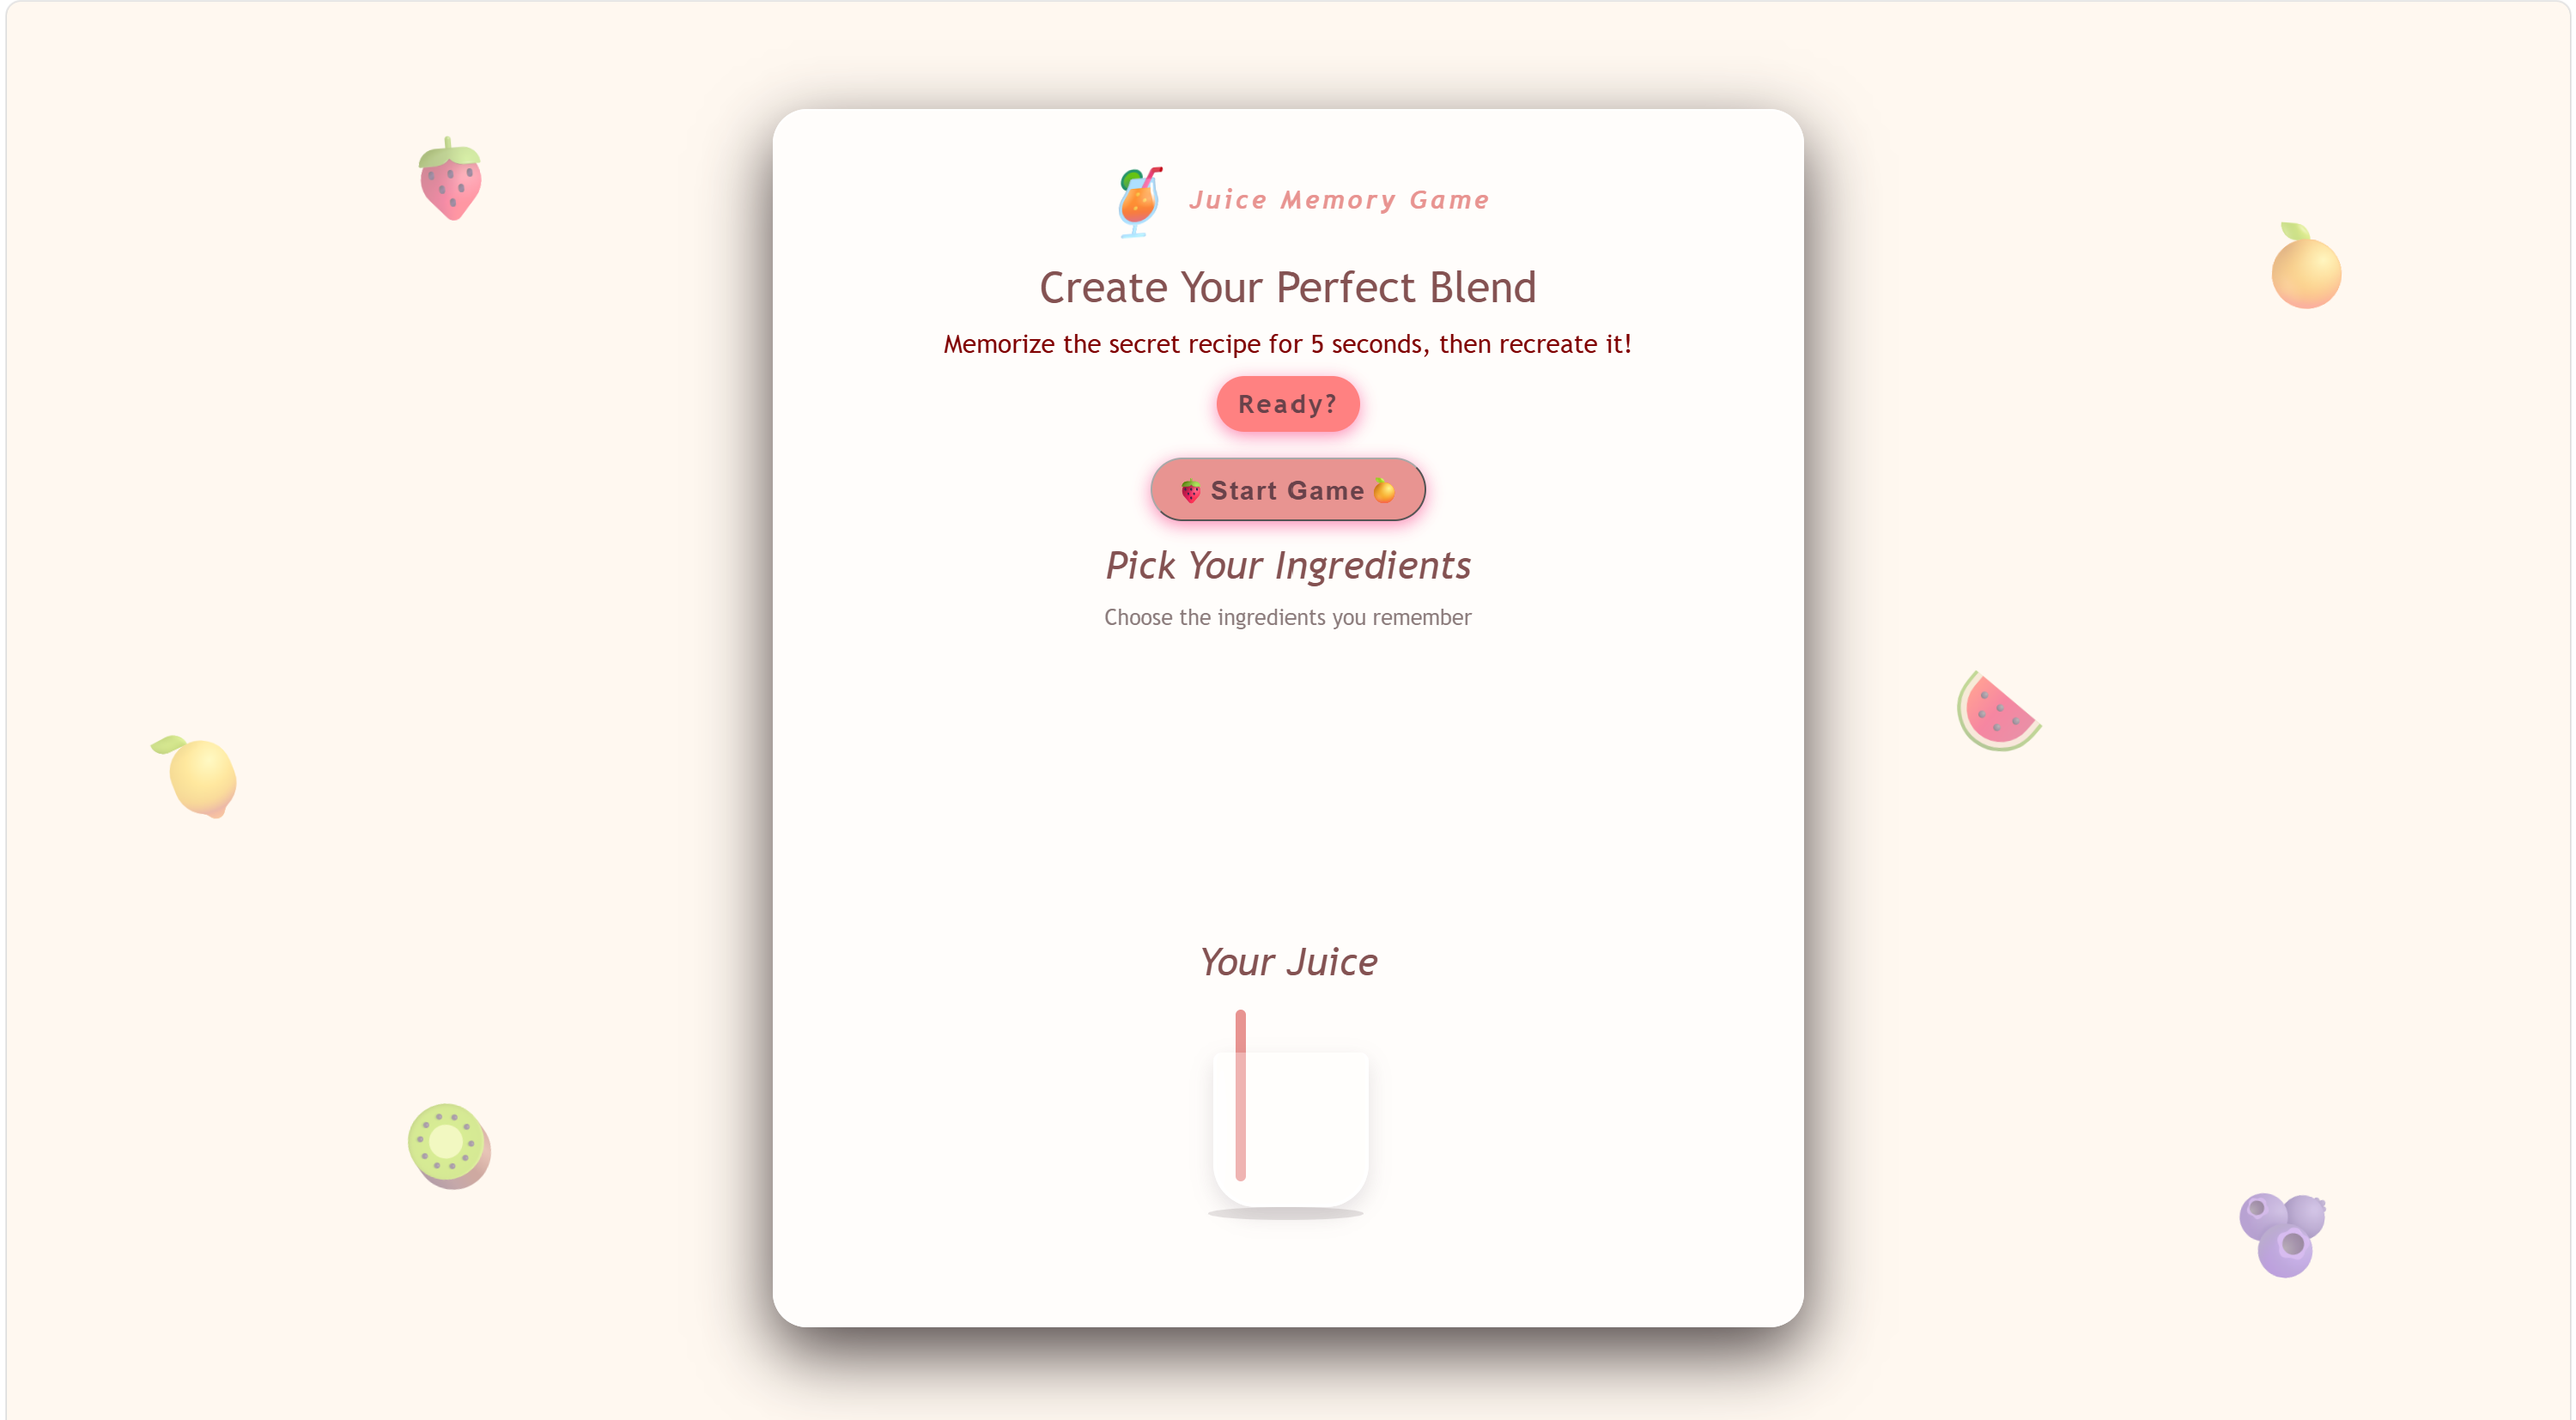
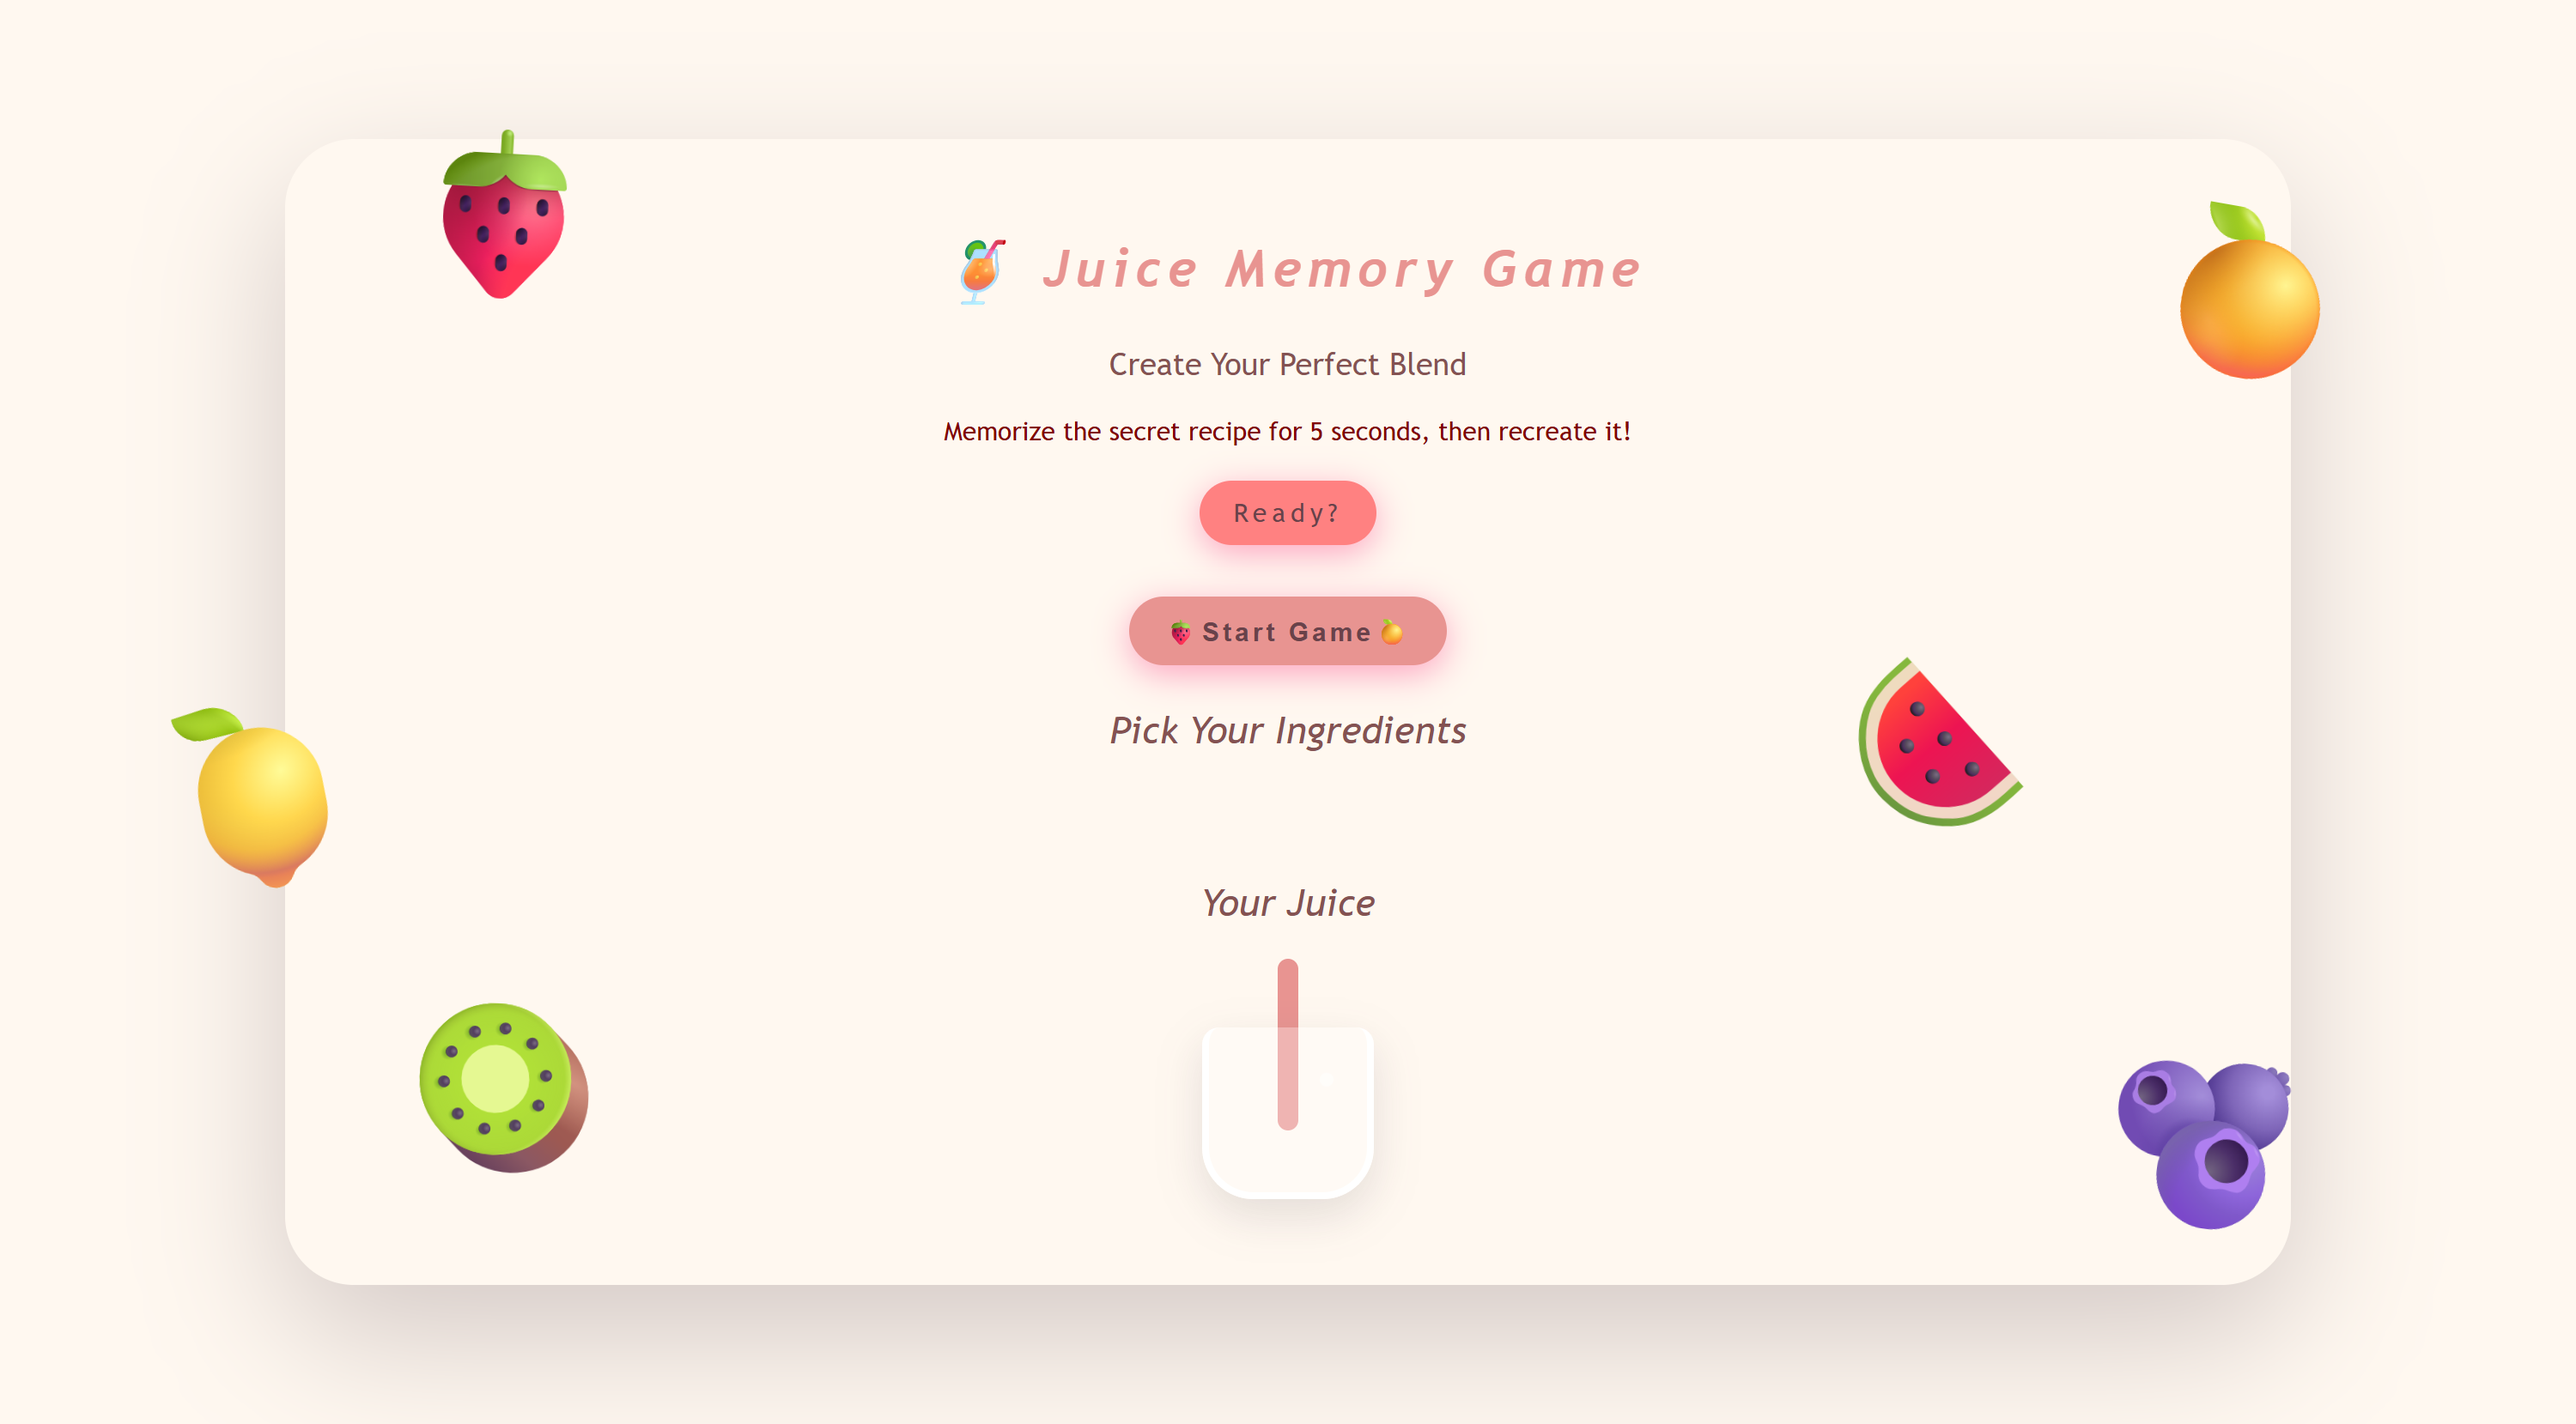
Finalize Juice Memory Game and clean up code

diff --git a/js/app.js b/js/app.js
@@ -70,8 +70,6 @@ const secHead = document.querySelector(".section-header");
 
 //start game
 function startGame(){
-    console.log("the game is started");
-
     fiveIngredients = [];
     selectedIngredients = [];
 
@@ -114,8 +112,6 @@ function startGame(){
         //hide them
         ingContainer.innerHTML = "";
 
-        console.log("ingredients are hidden!");
-
         //display all the ingredients for the player
         for(const allIngredients of ingredients){
             const ingButton = document.createElement("button");
@@ -127,7 +123,6 @@ function startGame(){
 
             ingContainer.appendChild(ingButton);
         }
-        console.log("Choose your ingredients!");
 
     },5000);
 
@@ -138,7 +133,6 @@ function startGame(){
 
 //play again
 function playAgain(){
-    console.log("you can play again");
 
     // Clear previous game
     selectedIngredients = [];
@@ -161,9 +155,7 @@ function playAgain(){
 
 //make juice
 function makeJuice(){
-    console.log("Juice is made!");
-
-
+    
     const isCorrect =
         fiveIngredients.length === selectedIngredients.length &&
         fiveIngredients.every((ingredient, index) =>
@@ -212,8 +204,6 @@ function makeJuice(){
     //show pplay agin button
     playAgainButton.style.display = "inline-block";
 
-
-    console.log("Result screen displayed!");
 }
 
 //player choice
@@ -225,9 +215,7 @@ const getPlayerChoice = (event) => {
 
     //Add ingredient to cup
     addIngredient(playerChoice);
-    
-    console.log("player selected: ", playerChoice);
-    console.log("All selected ingredient: ",selectedIngredients);
+
 };
 
 //computer random ingredients
@@ -237,7 +225,6 @@ const getRandomIng = () =>{
     for(i = 0; i<5;i++){
     const randomIndex = Math.floor(Math.random() * ingredients.length);
     const randomIng = ingredients[randomIndex];
-    console.log("ingredinets: " +randomIng);
 
     // check if ingredients is already selected
     if(!fiveIngredients.includes(randomIng)){
@@ -316,10 +303,6 @@ const handleMove = (event) => {
     selectedIngredients.push(playerChoice);
 
     event.target.classList.add("selected");
-
-    console.log("player selected: ", playerChoice);
-    console.log("All selected ingredient: ", selectedIngredients);
-
     
     render();
 };

diff --git a/README.md b/README.md
@@ -22,14 +22,24 @@ I chose this idea because I wanted to create a fun and interactive memory game w
 6. You win if you choose the correct ingredients in the ***correct order***.
 
 
-## Getting started: Include a link to your deployed game and any instructions you deem important. This should also contain a link to your planning materials.
-## Attributions: This section should include links to any external resources (such as libraries or assets) you used to develop your application that require attribution. You can exclude this section if it does not apply to your application.
-#### Emoji icons used from AI tools 
-#### Paster color palette inspiration: https://colorhunt.co/
-#### JavaScript reference: https://developer.mozilla.org/en-US/
-#### CSS reference: https://css-tricks.com/  
-#### Technologies used:
-HTML, CSS, JavaScript, Git and GitHub
+## Getting started: 
+[Play the Juice Memory Game](https://muneeraalmajed.github.io/juice-memory/)
+
+## Technologies Used
+
+- HTML
+- CSS
+- JavaScript
+- Git
+- GitHub
+
+## Attributions
+
+- Emoji icons generated using AI tools.
+- Pastel color palette inspired by [Color Hunt](https://colorhunt.co/).
+- JavaScript documentation: [MDN Web Docs](https://developer.mozilla.org/en-US/).
+- CSS reference: [CSS-Tricks](https://css-tricks.com/).
+
 #### Next steps: 
 - Add different difficult levels
 - Add more ingredients and recipes
